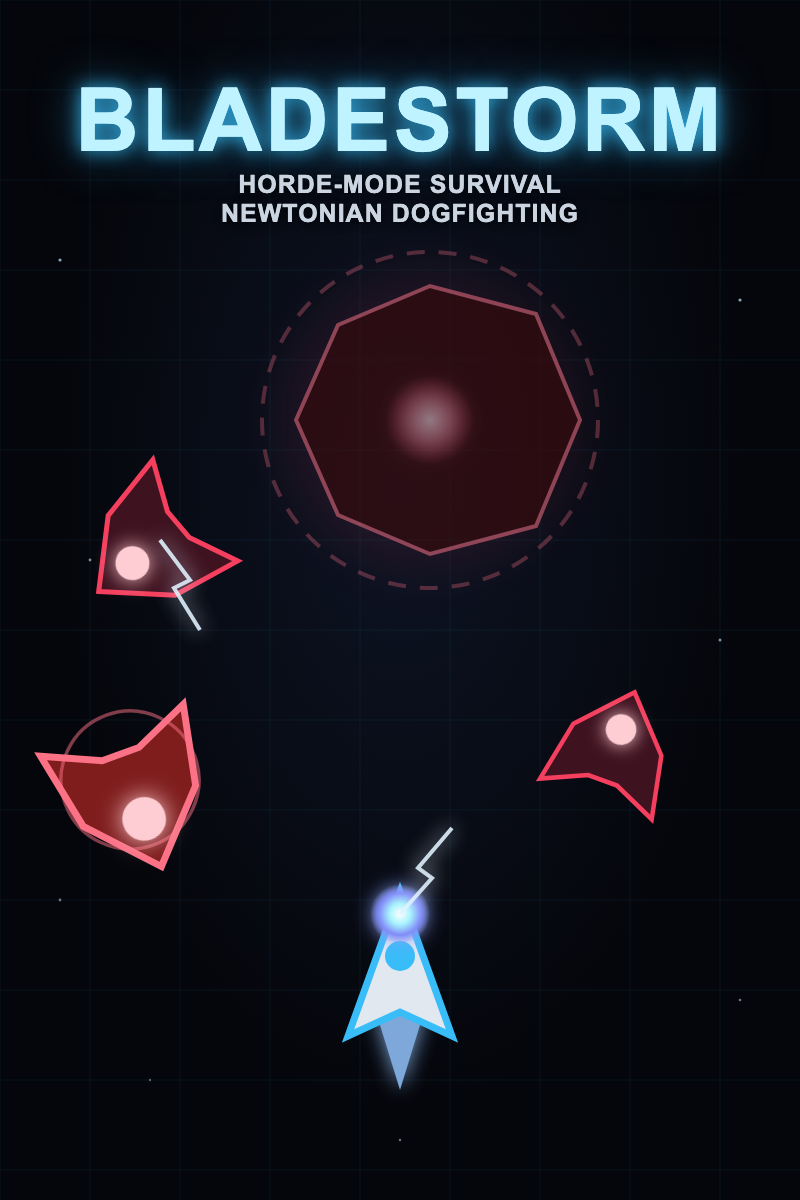
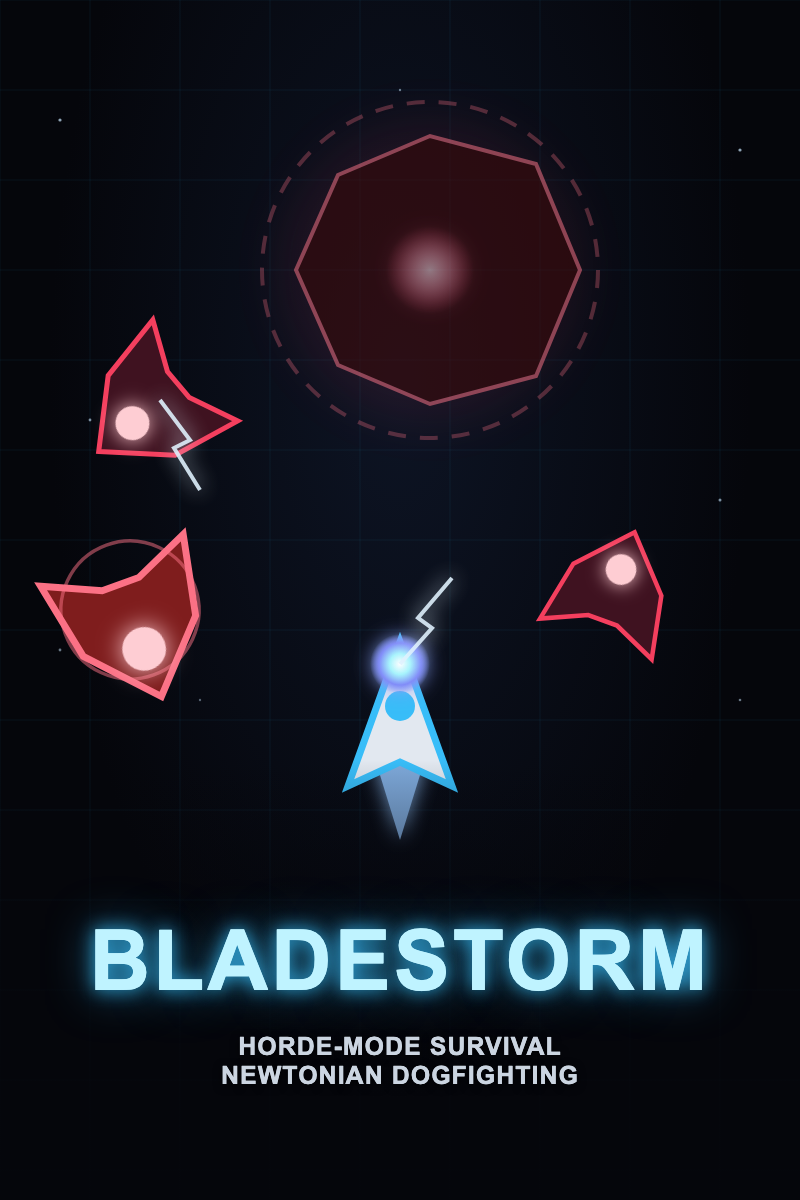
Move cover art title/tagline into a bottom-third scrim band

diff --git a/covers/src-landscape.html b/covers/src-landscape.html
@@ -5,18 +5,22 @@
 <style>
   html,body{margin:0;padding:0;overflow:hidden;background:#05060b;}
   #stage{width:1920px;height:1080px;position:relative;overflow:hidden;
-    background: radial-gradient(ellipse at 65% 45%, #0d1424 0%, #05060b 62%);
+    background: radial-gradient(ellipse at 50% 35%, #0d1424 0%, #05060b 62%);
     font-family: Arial, Helvetica, sans-serif;
   }
   svg{display:block;}
+  .scrim{
+    position:absolute; left:0; bottom:0; width:100%; height:420px;
+    background: linear-gradient(to bottom, rgba(5,6,11,0) 0%, rgba(5,6,11,0.75) 45%, rgba(5,6,11,0.96) 100%);
+  }
   .title{
-    position:absolute; top:340px; left:70px; width:640px;
-    font-size:118px; font-weight:900; letter-spacing:4px; color:#bff3ff; line-height:1;
+    position:absolute; bottom:170px; left:0; width:100%; text-align:center;
+    font-size:120px; font-weight:900; letter-spacing:5px; color:#bff3ff;
     text-shadow: 0 0 22px rgba(56,189,248,0.9), 0 0 56px rgba(56,189,248,0.55), 0 4px 12px rgba(0,0,0,0.8);
     margin:0;
   }
   .tagline{
-    position:absolute; top:492px; left:74px; width:560px;
+    position:absolute; bottom:100px; left:0; width:100%; text-align:center;
     font-size:32px; font-weight:600; letter-spacing:1.5px; color:#cbd5e1;
     text-shadow: 0 2px 8px rgba(0,0,0,0.8);
   }
@@ -49,62 +53,69 @@
 
   <g fill="#cbe8ff">
     <circle cx="120" cy="90" r="1.6" opacity="0.7"/>
-    <circle cx="1500" cy="120" r="1.6" opacity="0.7"/>
-    <circle cx="1780" cy="260" r="1.4" opacity="0.6"/>
-    <circle cx="1850" cy="700" r="1.6" opacity="0.7"/>
-    <circle cx="1650" cy="950" r="1.3" opacity="0.5"/>
-    <circle cx="1100" cy="80" r="1.2" opacity="0.5"/>
-    <circle cx="950" cy="980" r="1.4" opacity="0.6"/>
-    <circle cx="1300" cy="900" r="1.2" opacity="0.5"/>
-    <circle cx="200" cy="900" r="1.2" opacity="0.4"/>
+    <circle cx="1500" cy="80" r="1.6" opacity="0.7"/>
+    <circle cx="1780" cy="200" r="1.4" opacity="0.6"/>
+    <circle cx="1850" cy="500" r="1.6" opacity="0.7"/>
+    <circle cx="1650" cy="620" r="1.3" opacity="0.5"/>
+    <circle cx="1100" cy="60" r="1.2" opacity="0.5"/>
+    <circle cx="950" cy="600" r="1.4" opacity="0.6"/>
+    <circle cx="300" cy="600" r="1.2" opacity="0.5"/>
+    <circle cx="200" cy="150" r="1.2" opacity="0.4"/>
+    <circle cx="60" cy="500" r="1.3" opacity="0.5"/>
   </g>
 
   <!-- boss, big and dim, upper-right -->
-  <g transform="translate(1430,330)" opacity="0.55">
+  <g transform="translate(1430,260)" opacity="0.55">
     <g filter="url(#glowBig)" opacity="0.5">
-      <circle r="160" fill="#f43f5e" opacity="0.35"/>
+      <circle r="150" fill="#f43f5e" opacity="0.35"/>
     </g>
-    <circle r="178" fill="none" stroke="#fb7185" stroke-width="4" stroke-dasharray="18 14" opacity="0.55"/>
-    <polygon points="160,0 113,-113 0,-143 -98,-101 -143,0 -98,101 0,143 113,113"
+    <circle r="168" fill="none" stroke="#fb7185" stroke-width="4" stroke-dasharray="18 14" opacity="0.55"/>
+    <polygon points="150,0 106,-106 0,-134 -92,-95 -134,0 -92,95 0,134 106,106"
       fill="#450a0a" stroke="#fb7185" stroke-width="4"/>
-    <circle r="48" fill="url(#bossCore)" filter="url(#glowSoft)"/>
+    <circle r="46" fill="url(#bossCore)" filter="url(#glowSoft)"/>
   </g>
 
-  <!-- battle bots converging from the right -->
-  <g transform="translate(1720,600) rotate(150)">
+  <!-- battle bots converging from the left/right -->
+  <g transform="translate(220,300) rotate(150)">
     <polygon points="80,0 24,-52 -46,-66 -24,-17 -24,17 -46,66 24,52"
       fill="#3f1220" stroke="#f43f5e" stroke-width="5"/>
     <circle cx="36" cy="0" r="17" fill="#fecdd3" filter="url(#glowSoft)"/>
   </g>
-  <g transform="translate(1370,840) rotate(80) scale(1.2)">
+  <g transform="translate(1700,550) rotate(150)">
+    <polygon points="80,0 24,-52 -46,-66 -24,-17 -24,17 -46,66 24,52"
+      fill="#3f1220" stroke="#f43f5e" stroke-width="5"/>
+    <circle cx="36" cy="0" r="17" fill="#fecdd3" filter="url(#glowSoft)"/>
+  </g>
+  <g transform="translate(260,580) rotate(60) scale(1.2)">
     <polygon points="80,0 24,-52 -46,-66 -24,-17 -24,17 -46,66 24,52"
       fill="#7f1d1d" stroke="#fb7185" stroke-width="6"/>
     <circle r="60" fill="none" stroke="rgba(251,113,133,0.5)" stroke-width="3"/>
     <circle cx="36" cy="0" r="19" fill="#fecdd3" filter="url(#glowSoft)"/>
   </g>
-  <g transform="translate(1560,850) rotate(-130) scale(0.9)">
+  <g transform="translate(1520,610) rotate(-130) scale(0.9)">
     <polygon points="80,0 24,-52 -46,-66 -24,-17 -24,17 -46,66 24,52"
       fill="#3f1220" stroke="#f43f5e" stroke-width="5"/>
     <circle cx="36" cy="0" r="17" fill="#fecdd3" filter="url(#glowSoft)"/>
   </g>
 
-  <!-- player ship, hero, center-right, facing up into the fight -->
-  <g transform="translate(1060,780) rotate(-40)">
+  <!-- player ship, hero, dead-center, facing up into the fight -->
+  <g transform="translate(960,560) rotate(-90)">
     <polygon points="-34,-26 -118,0 -34,26" fill="#93c5fd" opacity="0.85" filter="url(#glowSoft)"/>
     <polygon points="94,0 -60,56 -34,0 -60,-56" fill="#e2e8f0" stroke="#38bdf8" stroke-width="7"/>
     <circle cx="26" cy="0" r="16" fill="#38bdf8"/>
   </g>
-  <g transform="translate(1114,726)">
+  <g transform="translate(960,486)">
     <circle r="32" fill="url(#orbGrad)" filter="url(#glowSoft)"/>
   </g>
 
   <g stroke="#e0f2fe" stroke-width="4" fill="none" opacity="0.9" filter="url(#glowSoft)">
-    <polyline points="1114,726 1150,684 1134,674 1170,628"/>
-    <polyline points="1720,600 1750,640 1734,648 1760,690"/>
+    <polyline points="960,486 992,444 976,434 1012,388"/>
+    <polyline points="220,300 250,340 234,348 260,390"/>
   </g>
 </svg>
+<div class="scrim"></div>
 <div class="title">BLADESTORM</div>
-<div class="tagline">Horde-mode survival &amp; Newtonian dogfighting</div>
+<div class="tagline">HORDE-MODE SURVIVAL &middot; NEWTONIAN DOGFIGHTING</div>
 </div>
 <script>
   const gl = document.getElementById('gridlines');

diff --git a/covers/src-square.html b/covers/src-square.html
@@ -5,19 +5,23 @@
 <style>
   html,body{margin:0;padding:0;overflow:hidden;background:#05060b;}
   #stage{width:800px;height:800px;position:relative;overflow:hidden;
-    background: radial-gradient(ellipse at 50% 30%, #0d1424 0%, #05060b 60%);
+    background: radial-gradient(ellipse at 50% 28%, #0d1424 0%, #05060b 60%);
     font-family: Arial, Helvetica, sans-serif;
   }
   svg{display:block;}
+  .scrim{
+    position:absolute; left:0; bottom:0; width:100%; height:340px;
+    background: linear-gradient(to bottom, rgba(5,6,11,0) 0%, rgba(5,6,11,0.75) 45%, rgba(5,6,11,0.96) 100%);
+  }
   .title{
-    position:absolute; top:64px; left:0; width:100%; text-align:center;
-    font-size:92px; font-weight:900; letter-spacing:4px; color:#bff3ff;
+    position:absolute; bottom:130px; left:0; width:100%; text-align:center;
+    font-size:88px; font-weight:900; letter-spacing:4px; color:#bff3ff;
     text-shadow: 0 0 18px rgba(56,189,248,0.9), 0 0 46px rgba(56,189,248,0.55), 0 4px 10px rgba(0,0,0,0.8);
     margin:0;
   }
   .tagline{
-    position:absolute; top:168px; left:0; width:100%; text-align:center;
-    font-size:26px; font-weight:600; letter-spacing:2px; color:#cbd5e1;
+    position:absolute; bottom:76px; left:0; width:100%; text-align:center;
+    font-size:24px; font-weight:600; letter-spacing:2px; color:#cbd5e1;
     text-shadow: 0 2px 8px rgba(0,0,0,0.8);
   }
 </style>
@@ -46,28 +50,26 @@
   </defs>
 
   <!-- grid floor -->
-  <g stroke="rgba(56,189,248,0.08)" stroke-width="1">
-    <g id="gridlines"></g>
-  </g>
+  <g stroke="rgba(56,189,248,0.08)" stroke-width="1" id="gridlines"></g>
 
   <!-- stars -->
   <g fill="#cbe8ff">
-    <circle cx="62" cy="118" r="1.6" opacity="0.8"/>
-    <circle cx="140" cy="480" r="1.2" opacity="0.6"/>
-    <circle cx="88" cy="640" r="1.8" opacity="0.7"/>
-    <circle cx="720" cy="90" r="1.4" opacity="0.6"/>
-    <circle cx="740" cy="320" r="1.6" opacity="0.8"/>
-    <circle cx="690" cy="600" r="1.3" opacity="0.5"/>
-    <circle cx="40" cy="320" r="1.1" opacity="0.5"/>
-    <circle cx="600" cy="60" r="1.2" opacity="0.6"/>
-    <circle cx="240" cy="60" r="1.1" opacity="0.5"/>
-    <circle cx="420" cy="720" r="1.5" opacity="0.6"/>
-    <circle cx="760" cy="480" r="1.3" opacity="0.5"/>
-    <circle cx="20" cy="540" r="1.2" opacity="0.5"/>
+    <circle cx="62" cy="60" r="1.6" opacity="0.8"/>
+    <circle cx="140" cy="380" r="1.2" opacity="0.6"/>
+    <circle cx="88" cy="480" r="1.8" opacity="0.7"/>
+    <circle cx="720" cy="50" r="1.4" opacity="0.6"/>
+    <circle cx="740" cy="260" r="1.6" opacity="0.8"/>
+    <circle cx="690" cy="440" r="1.3" opacity="0.5"/>
+    <circle cx="40" cy="220" r="1.1" opacity="0.5"/>
+    <circle cx="600" cy="30" r="1.2" opacity="0.6"/>
+    <circle cx="240" cy="30" r="1.1" opacity="0.5"/>
+    <circle cx="420" cy="470" r="1.5" opacity="0.6"/>
+    <circle cx="760" cy="380" r="1.3" opacity="0.5"/>
+    <circle cx="20" cy="440" r="1.2" opacity="0.5"/>
   </g>
 
   <!-- boss, big and dim in the background -->
-  <g transform="translate(560,430)" opacity="0.55">
+  <g transform="translate(560,240)" opacity="0.55">
     <g filter="url(#glowBig)" opacity="0.5">
       <circle r="140" fill="#f43f5e" opacity="0.35"/>
     </g>
@@ -78,42 +80,39 @@
   </g>
 
   <!-- battle bots converging -->
-  <g id="bot1" transform="translate(150,340) rotate(140)">
+  <g transform="translate(150,150) rotate(140)">
     <polygon points="80,0 24,-52 -46,-66 -24,-17 -24,17 -46,66 24,52"
       fill="#3f1220" stroke="#f43f5e" stroke-width="5"/>
     <circle cx="36" cy="0" r="17" fill="#fecdd3" filter="url(#glowSoft)"/>
   </g>
-  <g id="bot2" transform="translate(110,540) rotate(70) scale(1.15)">
+  <g transform="translate(110,350) rotate(70) scale(1.15)">
     <polygon points="80,0 24,-52 -46,-66 -24,-17 -24,17 -46,66 24,52"
       fill="#7f1d1d" stroke="#fb7185" stroke-width="6"/>
     <circle r="60" fill="none" stroke="rgba(251,113,133,0.5)" stroke-width="3"/>
     <circle cx="36" cy="0" r="19" fill="#fecdd3" filter="url(#glowSoft)"/>
   </g>
-  <g id="bot3" transform="translate(300,610) rotate(-120) scale(0.9)">
+  <g transform="translate(300,420) rotate(-120) scale(0.9)">
     <polygon points="80,0 24,-52 -46,-66 -24,-17 -24,17 -46,66 24,52"
       fill="#3f1220" stroke="#f43f5e" stroke-width="5"/>
     <circle cx="36" cy="0" r="17" fill="#fecdd3" filter="url(#glowSoft)"/>
   </g>
 
-  <!-- player ship, hero position lower-center, facing up-right into the fight -->
-  <g transform="translate(430,660) rotate(-55)">
-    <!-- thruster flame -->
+  <!-- player ship, hero position, facing up-right into the fight -->
+  <g transform="translate(430,470) rotate(-55)">
     <polygon points="-32,-24 -110,0 -32,24" fill="#93c5fd" opacity="0.85" filter="url(#glowSoft)"/>
-    <!-- hull -->
     <polygon points="88,0 -56,52 -32,0 -56,-52" fill="#e2e8f0" stroke="#38bdf8" stroke-width="7"/>
     <circle cx="24" cy="0" r="15" fill="#38bdf8"/>
   </g>
-  <!-- orb -->
-  <g transform="translate(478,616)">
+  <g transform="translate(478,426)">
     <circle r="30" fill="url(#orbGrad)" filter="url(#glowSoft)"/>
   </g>
 
-  <!-- lightning accents -->
   <g stroke="#e0f2fe" stroke-width="4" fill="none" opacity="0.9" filter="url(#glowSoft)">
-    <polyline points="478,616 510,580 496,570 530,530"/>
-    <polyline points="150,340 180,380 164,388 190,430"/>
+    <polyline points="478,426 510,390 496,380 530,340"/>
+    <polyline points="150,150 180,190 164,198 190,240"/>
   </g>
 </svg>
+<div class="scrim"></div>
 <div class="title">BLADESTORM</div>
 <div class="tagline">HORDE-MODE SURVIVAL &middot; NEWTONIAN DOGFIGHTING</div>
 </div>

diff --git a/covers/src-portrait.html b/covers/src-portrait.html
@@ -5,18 +5,22 @@
 <style>
   html,body{margin:0;padding:0;overflow:hidden;background:#05060b;}
   #stage{width:800px;height:1200px;position:relative;overflow:hidden;
-    background: radial-gradient(ellipse at 50% 40%, #0d1424 0%, #05060b 62%);
+    background: radial-gradient(ellipse at 50% 32%, #0d1424 0%, #05060b 62%);
     font-family: Arial, Helvetica, sans-serif;
   }
   svg{display:block;}
+  .scrim{
+    position:absolute; left:0; bottom:0; width:100%; height:440px;
+    background: linear-gradient(to bottom, rgba(5,6,11,0) 0%, rgba(5,6,11,0.75) 45%, rgba(5,6,11,0.96) 100%);
+  }
   .title{
-    position:absolute; top:70px; left:0; width:100%; text-align:center;
-    font-size:88px; font-weight:900; letter-spacing:3px; color:#bff3ff;
+    position:absolute; bottom:190px; left:0; width:100%; text-align:center;
+    font-size:84px; font-weight:900; letter-spacing:3px; color:#bff3ff;
     text-shadow: 0 0 18px rgba(56,189,248,0.9), 0 0 46px rgba(56,189,248,0.55), 0 4px 10px rgba(0,0,0,0.8);
     margin:0;
   }
   .tagline{
-    position:absolute; top:170px; left:0; width:100%; text-align:center;
+    position:absolute; bottom:110px; left:0; width:100%; text-align:center;
     font-size:25px; font-weight:600; letter-spacing:1px; color:#cbd5e1;
     text-shadow: 0 2px 8px rgba(0,0,0,0.8);
   }
@@ -48,18 +52,18 @@
   <g stroke="rgba(56,189,248,0.08)" stroke-width="1" id="gridlines"></g>
 
   <g fill="#cbe8ff">
-    <circle cx="60" cy="260" r="1.6" opacity="0.7"/>
-    <circle cx="740" cy="300" r="1.6" opacity="0.7"/>
-    <circle cx="90" cy="560" r="1.4" opacity="0.6"/>
-    <circle cx="720" cy="640" r="1.5" opacity="0.6"/>
-    <circle cx="60" cy="900" r="1.4" opacity="0.5"/>
-    <circle cx="740" cy="1000" r="1.3" opacity="0.5"/>
-    <circle cx="400" cy="1140" r="1.2" opacity="0.5"/>
-    <circle cx="150" cy="1080" r="1.2" opacity="0.4"/>
+    <circle cx="60" cy="120" r="1.6" opacity="0.7"/>
+    <circle cx="740" cy="150" r="1.6" opacity="0.7"/>
+    <circle cx="90" cy="420" r="1.4" opacity="0.6"/>
+    <circle cx="720" cy="500" r="1.5" opacity="0.6"/>
+    <circle cx="60" cy="650" r="1.4" opacity="0.5"/>
+    <circle cx="740" cy="700" r="1.3" opacity="0.5"/>
+    <circle cx="400" cy="90" r="1.2" opacity="0.5"/>
+    <circle cx="200" cy="700" r="1.2" opacity="0.4"/>
   </g>
 
   <!-- boss, big and dim, upper-middle -->
-  <g transform="translate(430,420)" opacity="0.55">
+  <g transform="translate(430,270)" opacity="0.55">
     <g filter="url(#glowBig)" opacity="0.5">
       <circle r="150" fill="#f43f5e" opacity="0.35"/>
     </g>
@@ -70,38 +74,39 @@
   </g>
 
   <!-- battle bots converging -->
-  <g transform="translate(160,540) rotate(140)">
+  <g transform="translate(160,400) rotate(140)">
     <polygon points="80,0 24,-52 -46,-66 -24,-17 -24,17 -46,66 24,52"
       fill="#3f1220" stroke="#f43f5e" stroke-width="5"/>
     <circle cx="36" cy="0" r="17" fill="#fecdd3" filter="url(#glowSoft)"/>
   </g>
-  <g transform="translate(130,780) rotate(70) scale(1.15)">
+  <g transform="translate(130,610) rotate(70) scale(1.15)">
     <polygon points="80,0 24,-52 -46,-66 -24,-17 -24,17 -46,66 24,52"
       fill="#7f1d1d" stroke="#fb7185" stroke-width="6"/>
     <circle r="60" fill="none" stroke="rgba(251,113,133,0.5)" stroke-width="3"/>
     <circle cx="36" cy="0" r="19" fill="#fecdd3" filter="url(#glowSoft)"/>
   </g>
-  <g transform="translate(610,760) rotate(-70) scale(0.9)">
+  <g transform="translate(610,600) rotate(-70) scale(0.9)">
     <polygon points="80,0 24,-52 -46,-66 -24,-17 -24,17 -46,66 24,52"
       fill="#3f1220" stroke="#f43f5e" stroke-width="5"/>
     <circle cx="36" cy="0" r="17" fill="#fecdd3" filter="url(#glowSoft)"/>
   </g>
 
-  <!-- player ship, hero position lower-center, facing up into the fight -->
-  <g transform="translate(400,980) rotate(-90)">
+  <!-- player ship, hero position, facing up into the fight -->
+  <g transform="translate(400,730) rotate(-90)">
     <polygon points="-32,-24 -110,0 -32,24" fill="#93c5fd" opacity="0.85" filter="url(#glowSoft)"/>
     <polygon points="88,0 -56,52 -32,0 -56,-52" fill="#e2e8f0" stroke="#38bdf8" stroke-width="7"/>
     <circle cx="24" cy="0" r="15" fill="#38bdf8"/>
   </g>
-  <g transform="translate(400,914)">
+  <g transform="translate(400,664)">
     <circle r="30" fill="url(#orbGrad)" filter="url(#glowSoft)"/>
   </g>
 
   <g stroke="#e0f2fe" stroke-width="4" fill="none" opacity="0.9" filter="url(#glowSoft)">
-    <polyline points="400,914 432,878 418,868 452,828"/>
-    <polyline points="160,540 190,580 174,588 200,630"/>
+    <polyline points="400,664 432,628 418,618 452,578"/>
+    <polyline points="160,400 190,440 174,448 200,490"/>
   </g>
 </svg>
+<div class="scrim"></div>
 <div class="title">BLADESTORM</div>
 <div class="tagline">HORDE-MODE SURVIVAL<br/>NEWTONIAN DOGFIGHTING</div>
 </div>
